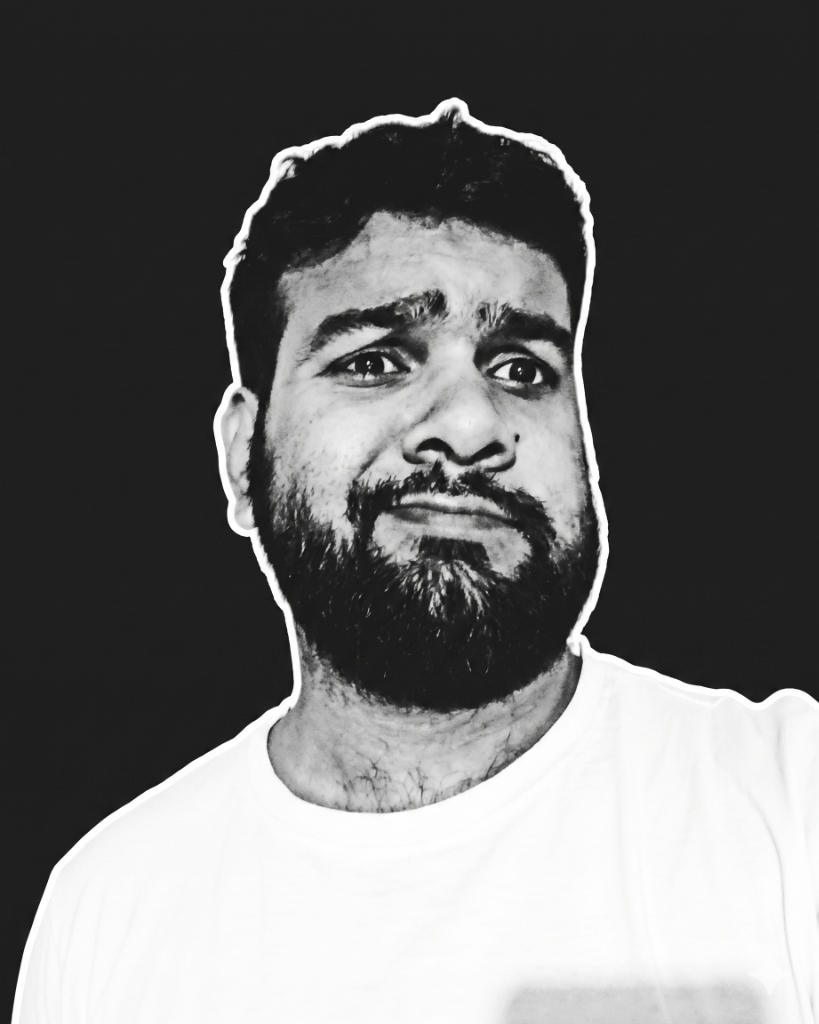
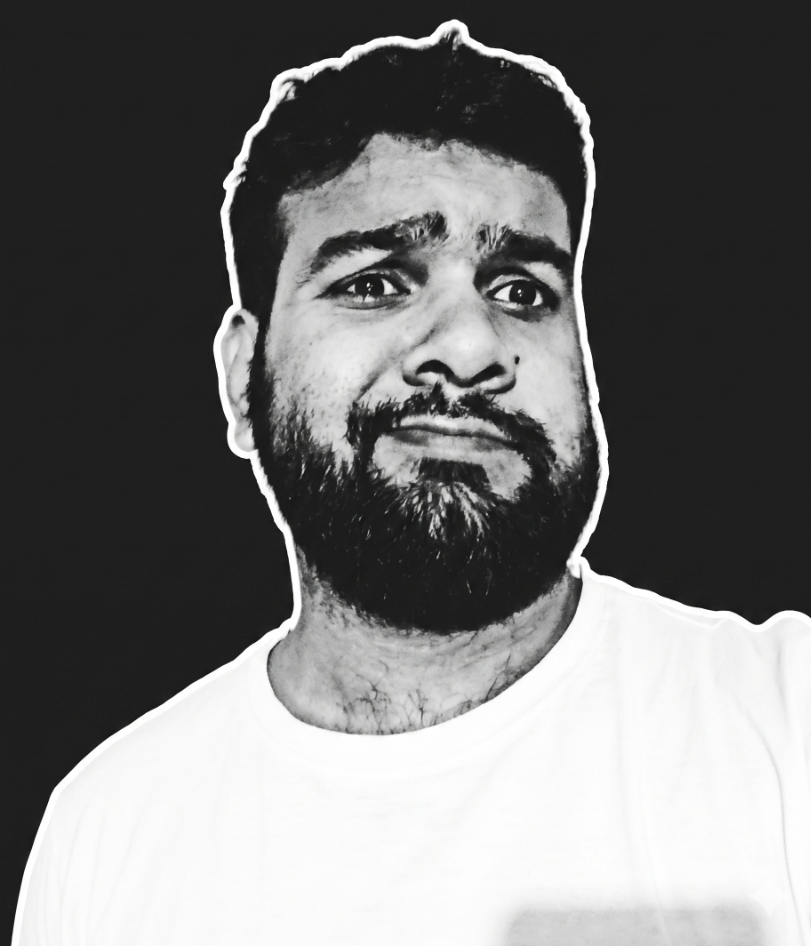
Scroll behaviour updated

Changed region(s): [[0.1233, 0.0, 1.0, 0.797], [0.0617, 0.797, 0.1233, 0.8584], [0.0308, 0.8584, 0.0617, 0.9197]]

diff --git a/src/app/app.html b/src/app/app.html
@@ -1,10 +1,20 @@
 <!-- Interactive Sticky Navigation Bar -->
 <header class="sticky top-0 z-50 flex justify-between items-center px-6 py-4 border-b-3 border-black bg-bg-cream">
   <a href="#"
-    class="flex items-center gap-3 font-heading font-bold text-2xl uppercase tracking-tighter hover:scale-105 transition-transform">
-    <span
-      class="bg-main text-main-foreground border-2 border-black rounded-lg w-10 h-10 flex items-center justify-center shadow-brutal-sm font-black text-3xl">P</span>
-    <span>Portfolio.</span>
+    class="group flex items-center transition-all duration-300"
+    aria-label="Farhan Amjad Portfolio">
+    <div class="relative w-[66px] h-10 select-none mr-2">
+      <!-- Letter F badge -->
+      <span
+        class="absolute left-0 top-0 w-9 h-9 bg-main text-black border-2 border-black rounded-lg flex items-center justify-center shadow-brutal-sm font-bungee text-xl -rotate-8 transition-all duration-300 group-hover:rotate-0 group-hover:translate-y-[-2px] group-hover:scale-105 z-10">
+        F
+      </span>
+      <!-- Letter A badge -->
+      <span
+        class="absolute right-0 bottom-0 w-9 h-9 bg-accent-yellow text-black border-2 border-black rounded-lg flex items-center justify-center shadow-brutal-sm font-bungee text-xl rotate-8 transition-all duration-300 group-hover:rotate-0 group-hover:translate-y-[2px] group-hover:scale-105 z-20">
+        A
+      </span>
+    </div>
   </a>
 
   <!-- Desktop Navigation -->
@@ -115,7 +125,7 @@
           <img src="farhan.png" alt="Farhan Amjad" class="w-full h-full object-cover object-top">
 
           <div
-            class="absolute bottom-4 bg-white border-2 border-black px-4 py-1 rounded-md font-heading font-bold text-sm shadow-brutal-sm text-black">
+            class="absolute bottom-4 bg-white border-2 border-black px-4 py-1 rounded-md font-heading font-bold text-sm shadow-brutal-sm text-black dark:text-white">
             👨💻 Developer Mode
           </div>
         </div>
@@ -143,12 +153,10 @@
     <div
       class="animate-marquee font-heading font-black text-2xl uppercase tracking-wider text-black select-none whitespace-nowrap">
       <span>
-        ⚡ ANGULAR 21 • 🧪 TS SIGNALS • 🦄 TAILWIND CSS V4 • 🦀 RUST API • 📦 DOCKER DEPLOYMENTS • 🎨 BRUTALIST DESIGNS •
-        🚀 CLOUD ARCHITECTURE •&nbsp;
+        ⚡ ANGULAR 21 • 🧪 TS SIGNALS • 🦄 TAILWIND CSS V4 • 🚦 NGRX STORE • 🏛️ NX MONOREPOS • 🧪 JEST TESTING • 🎨 BRUTALIST DESIGNS • ✨ MICRO-INTERACTIONS • 🔥 RXJS OBSERVABLES •&nbsp;
       </span>
       <span>
-        ⚡ ANGULAR 21 • 🧪 TS SIGNALS • 🦄 TAILWIND CSS V4 • 🦀 RUST API • 📦 DOCKER DEPLOYMENTS • 🎨 BRUTALIST DESIGNS •
-        🚀 CLOUD ARCHITECTURE •&nbsp;
+        ⚡ ANGULAR 21 • 🧪 TS SIGNALS • 🦄 TAILWIND CSS V4 • 🚦 NGRX STORE • 🏛️ NX MONOREPOS • 🧪 JEST TESTING • 🎨 BRUTALIST DESIGNS • ✨ MICRO-INTERACTIONS • 🔥 RXJS OBSERVABLES •&nbsp;
       </span>
     </div>
   </section>

diff --git a/src/styles.css b/src/styles.css
@@ -31,9 +31,16 @@
   /* Font styling */
   --font-sans: "Outfit", sans-serif;
   --font-heading: "Space Grotesk", sans-serif;
+  --font-righteous: "Righteous", sans-serif;
+  --font-bungee: "Bungee", sans-serif;
+  --font-syne: "Syne", sans-serif;
 }
 
 /* Global setup */
+html {
+  scroll-behavior: smooth;
+}
+
 body {
   background-color: var(--color-bg-cream);
   color: #000000;

diff --git a/src/index.html b/src/index.html
@@ -8,7 +8,7 @@
   <link rel="icon" type="image/x-icon" href="favicon.ico">
   <link rel="preconnect" href="https://fonts.googleapis.com">
   <link rel="preconnect" href="https://fonts.gstatic.com" crossorigin>
-  <link href="https://fonts.googleapis.com/css2?family=Outfit:wght@400;500;700&family=Space+Grotesk:wght@500;700&display=swap" rel="stylesheet">
+  <link href="https://fonts.googleapis.com/css2?family=Outfit:wght@400;500;700&family=Space+Grotesk:wght@500;700&family=Righteous&family=Bungee&family=Syne:wght@800&display=swap" rel="stylesheet">
 </head>
 <body>
   <app-root></app-root>